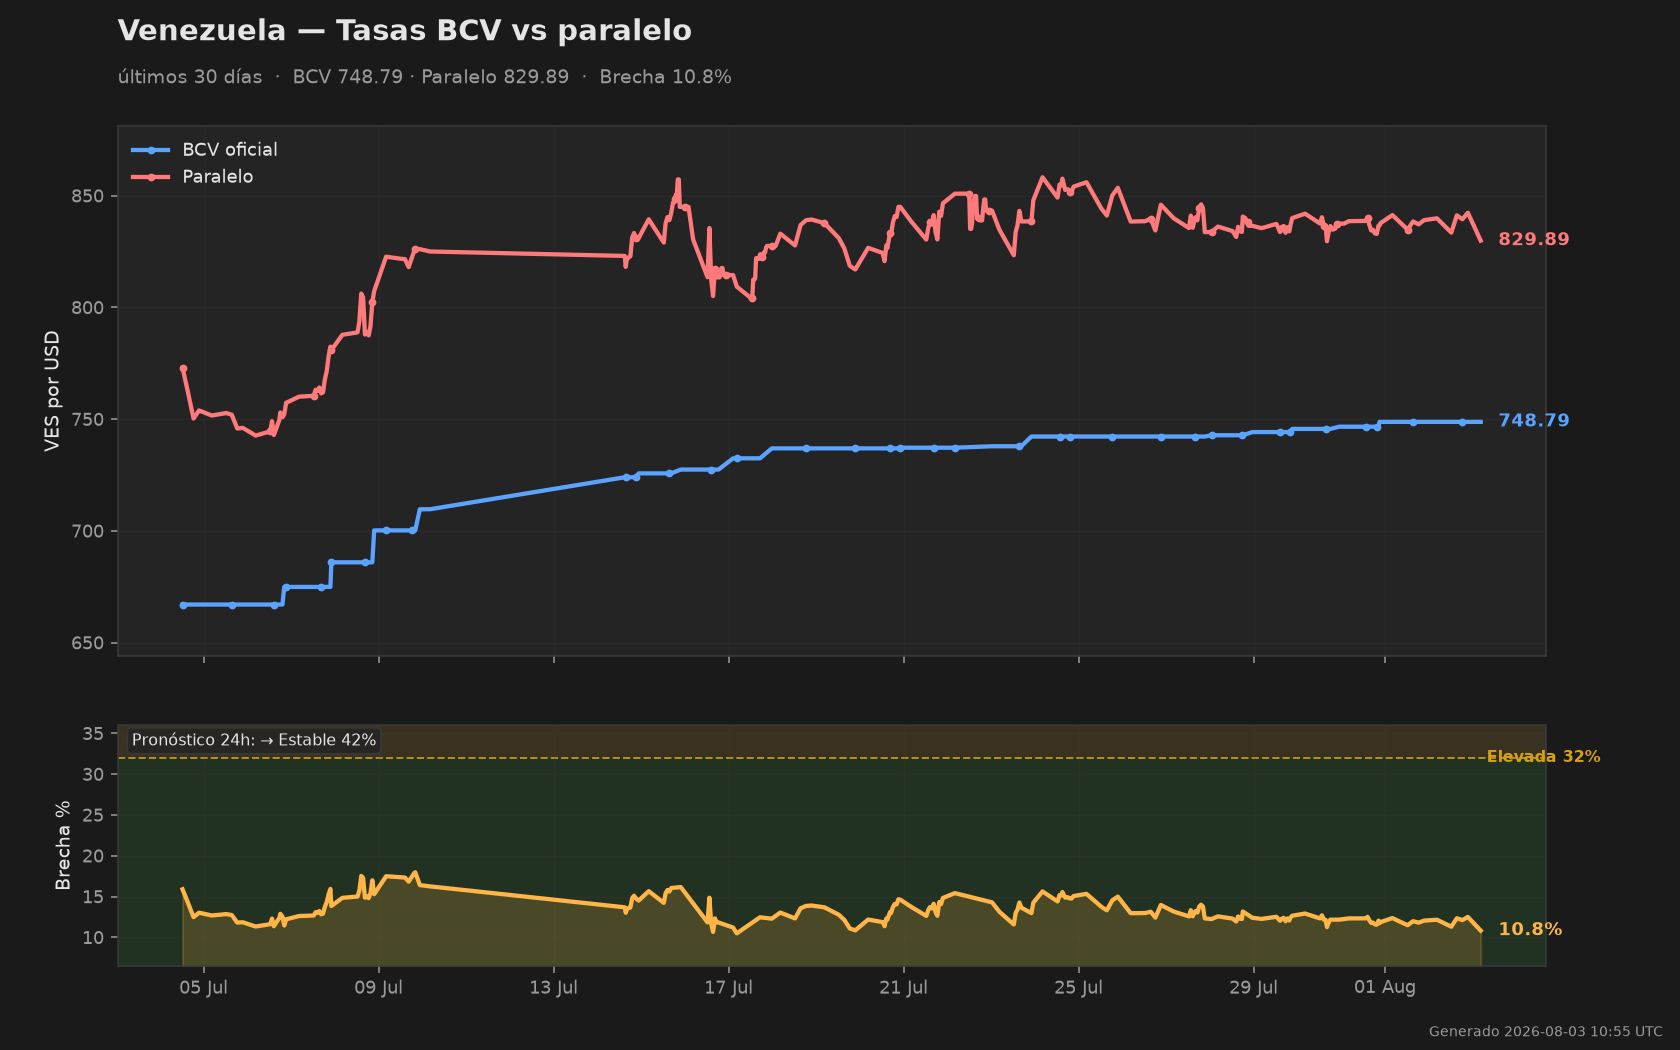
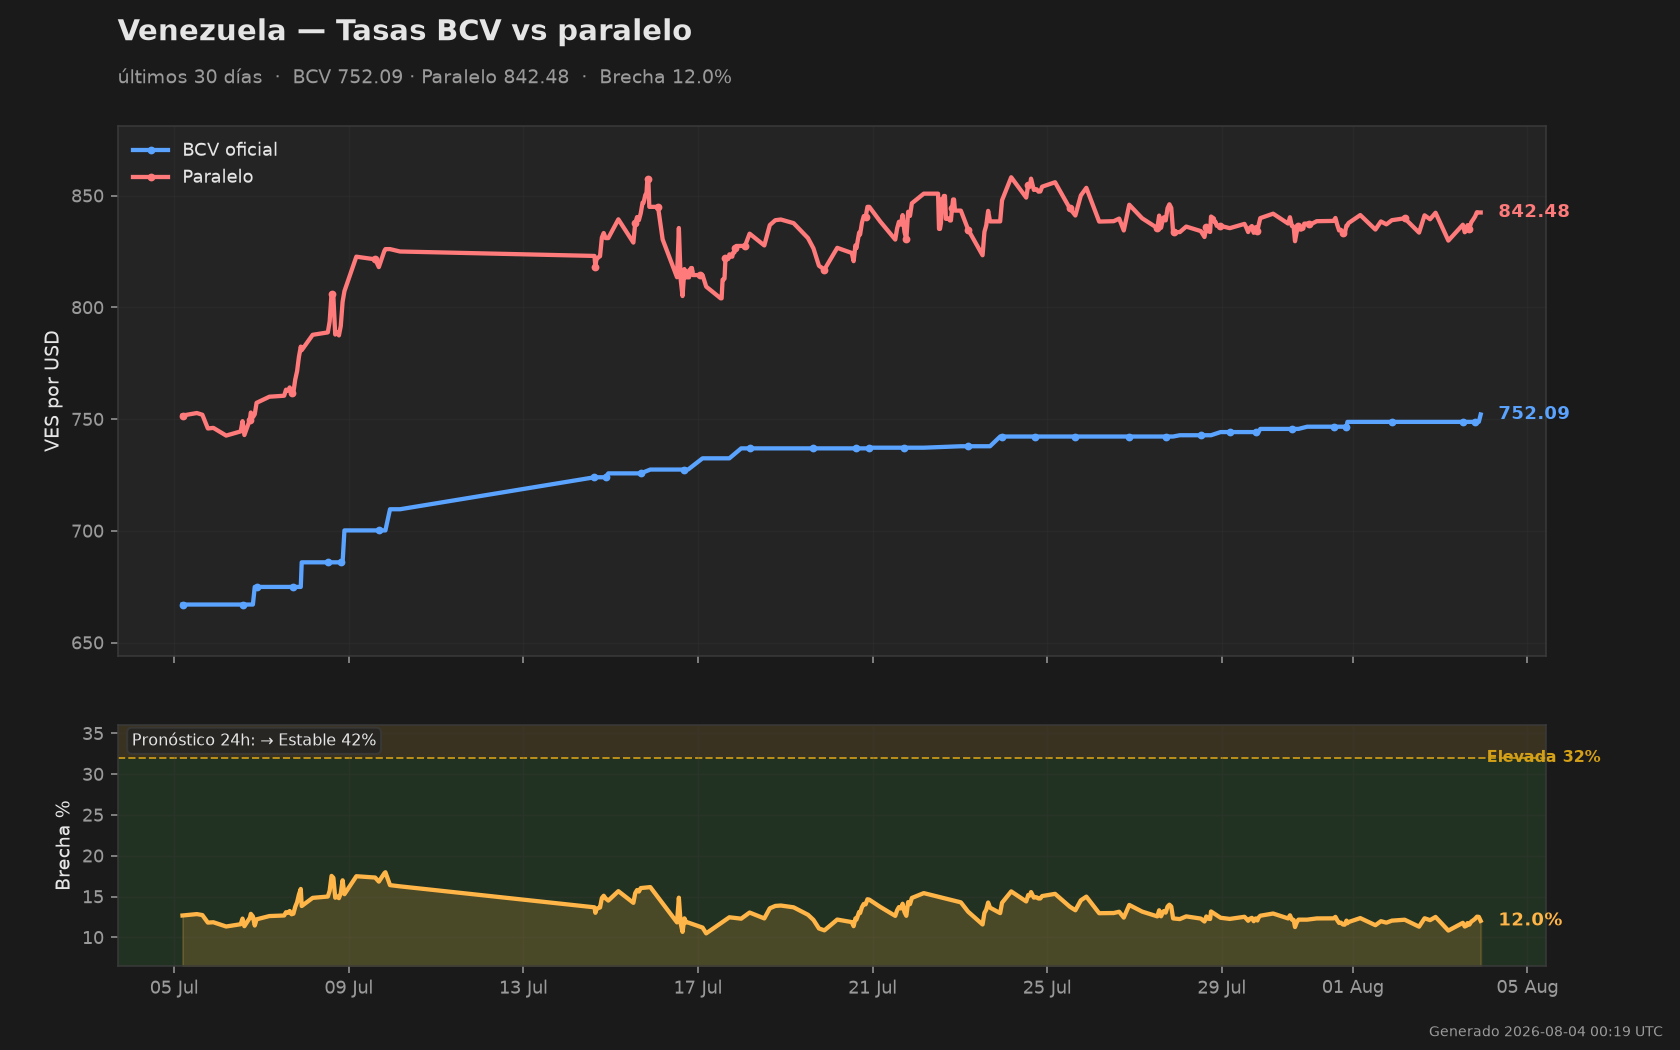
Dashboard update 2026-08-04 00:19 UTC

diff --git a/README.md b/README.md
@@ -10,12 +10,12 @@
 
 | Metric · Métrica | Value · Valor |
 |---|---|
-| BCV Oficial | **748.79** VES/USD |
-| Paralelo | **829.89** VES/USD |
-| Brecha · Spread | **10.8%** |
-| Binance P2P USDT/VES | **843.10** VES/USDT (+1.6% vs paralelo) |
+| BCV Oficial | **752.09** VES/USD |
+| Paralelo | **842.48** VES/USD |
+| Brecha · Spread | **12.0%** |
+| Binance P2P USDT/VES | **847.00** VES/USDT (+0.5% vs paralelo) |
 | **Pronóstico 24h · 24h Forecast** | **→ Estable · Stable (53%)** |
-| Actualizado · Updated | 2026-08-03 04:32 UTC |
+| Actualizado · Updated | 2026-08-03 22:18 UTC |
 
 ![Venezuela BCV vs parallel rate — last 30 days](data/chart.png)
 
@@ -29,8 +29,8 @@ Cada día compiten dos modelos sobre el mismo pronóstico: una **línea base** (
 
 | Model · Modelo | Brier ↓ | vs Baseline | Forecasts Scored · Evaluados |
 |---|---|---|---|
-| naive (baseline) | 0.703 ± 0.054 | — | 75 |
-| stat | 0.675 ± 0.048 | −0.027 ≈ | 75 |
+| naive (baseline) | 0.705 ± 0.054 | — | 76 |
+| stat | 0.683 ± 0.049 | −0.022 ≈ | 76 |
 
 *Accumulating live data since May 2026 · Acumulando datos en vivo desde mayo 2026*
 
